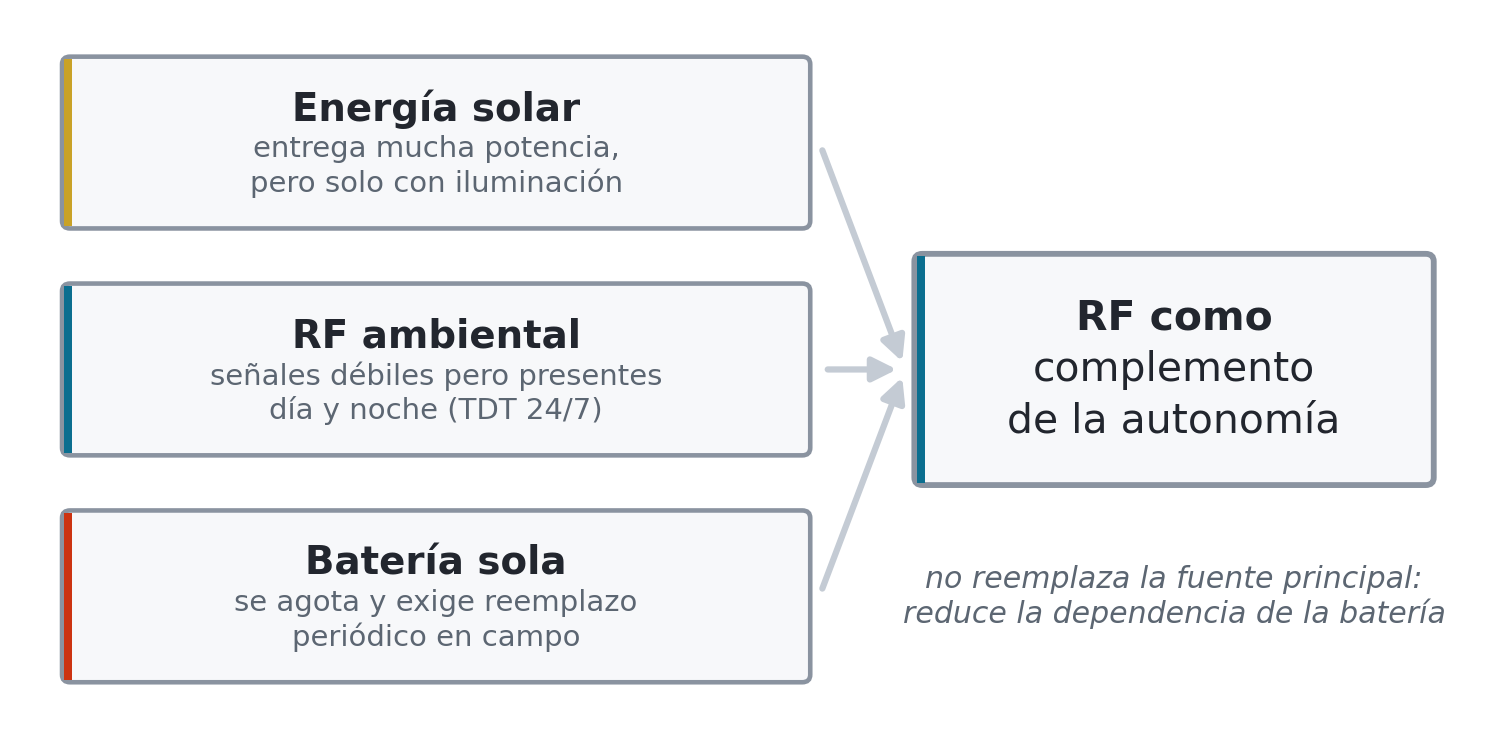
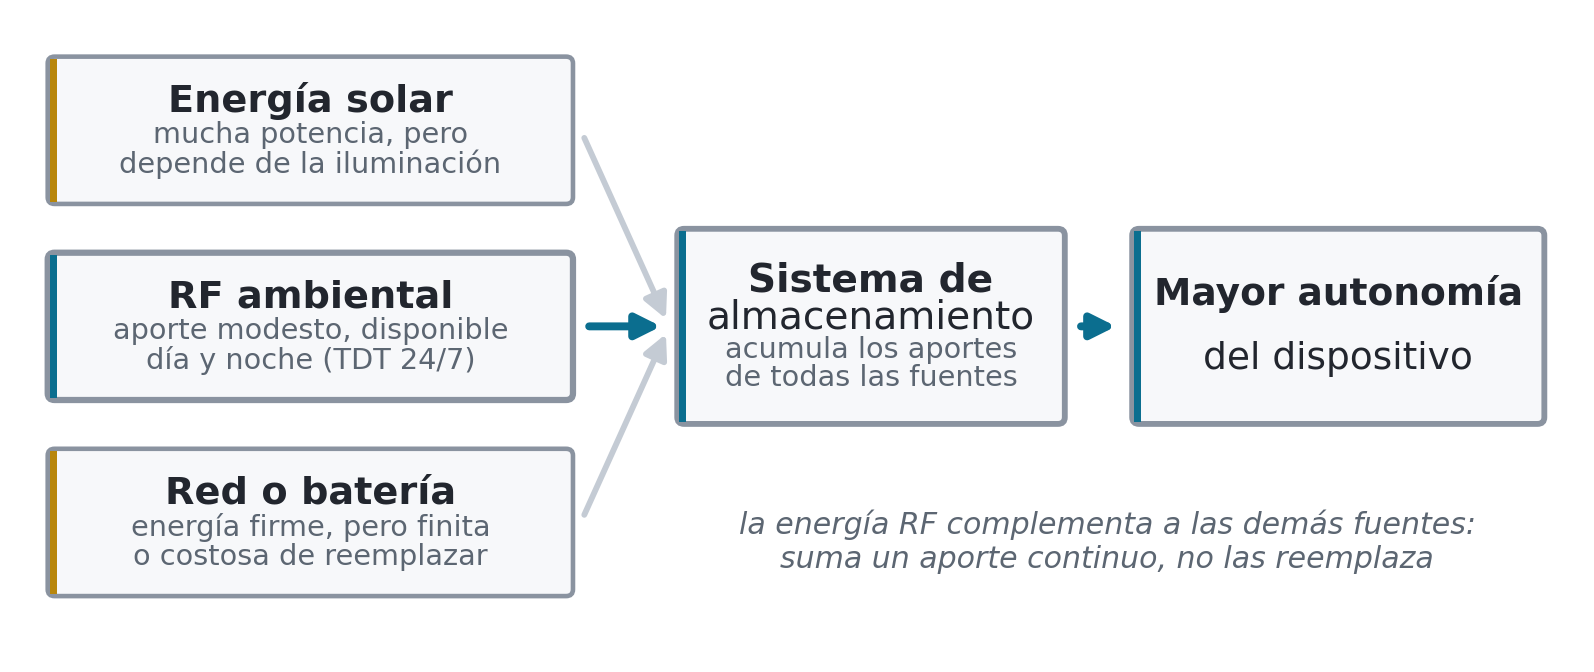
Figura C1 rehecha: RF como complemento del almacenamiento (mensaje honesto, paleta unificada)

Changed region(s): [[0.0, 0.0625, 0.9807, 0.9375]]

diff --git a/_regen/research_figures.py b/_regen/research_figures.py
@@ -89,29 +89,38 @@ def save(fig, name):
 
 
 # ══════════════════════════════════════════════════════════════════════════════
-# C1 — Por qué energía RF (§1.1): tres franjas honestas → RF como complemento
+# C1 — Por qué energía RF (§1.1): tres aportes → sistema de almacenamiento →
+#      mayor autonomía. La RF ambiental COMPLEMENTA (no reemplaza) las demás
+#      estrategias de alimentación. Paleta oro/teal del proyecto.
 # ══════════════════════════════════════════════════════════════════════════════
 def fig_c1():
-    fig, ax = lienzo(6.2, 2.9, (0, 12.6), (0.2, 6.4))
-    bx, bw, bh = 3.55, 6.5, 1.55
-    ys = (5.35, 3.25, 1.15)
+    fig, ax = lienzo(6.6, 2.65, (0, 15.6), (0.0, 6.4))
+    bx, bw, bh = 2.85, 5.3, 1.5
+    ys = (5.35, 3.30, 1.25)
     box(ax, bx, ys[0], bw, bh, ["Energía solar"],
-        sub="entrega mucha potencia,\npero solo con iluminación",
-        accent="#C9A227", fs=9.3, sub_fs=7.0)
+        sub="mucha potencia, pero\ndepende de la iluminación",
+        accent=A_GOLD, fs=9.2, sub_fs=6.9)
     box(ax, bx, ys[1], bw, bh, ["RF ambiental"],
-        sub="señales débiles pero presentes\ndía y noche (TDT 24/7)",
-        accent=AC, fs=9.3, sub_fs=7.0)
-    box(ax, bx, ys[2], bw, bh, ["Batería sola"],
-        sub="se agota y exige reemplazo\nperiódico en campo",
-        accent=COL["warn"], fs=9.3, sub_fs=7.0)
-    cx2, cy2, w2, h2 = 10.0, 3.25, 4.5, 2.1
-    box(ax, cx2, cy2, w2, h2,
-        ["RF como", "complemento", "de la autonomía"],
-        accent=AC, fs=9.8, bold_first=True, lw=1.4)
+        sub="aporte modesto, disponible\ndía y noche (TDT 24/7)",
+        accent=AC, fs=9.2, sub_fs=6.9, lw=1.5)
+    box(ax, bx, ys[2], bw, bh, ["Red o batería"],
+        sub="energía firme, pero finita\no costosa de reemplazar",
+        accent=A_GOLD, fs=9.2, sub_fs=6.9)
+    # etapa central: el almacenamiento donde convergen los aportes
+    cxs, cys, ws, hs = 8.55, 3.30, 3.9, 2.0
+    box(ax, cxs, cys, ws, hs, ["Sistema de", "almacenamiento"],
+        sub="acumula los aportes\nde todas las fuentes",
+        accent=AC, fs=9.4, sub_fs=6.9, lw=1.4)
+    # resultado: autonomía
+    cxa, cya, wa, ha = 13.30, 3.30, 4.15, 2.0
+    box(ax, cxa, cya, wa, ha, ["Mayor autonomía", "del dispositivo"],
+        accent=AC, fs=9.0, lw=1.4)
     for y in ys:
-        arrow(ax, bx + bw / 2 + 0.1, y, cx2 - w2 / 2 - 0.1, cy2,
-              color=RAIL, lw=1.5)
-    ax.text(10.0, 1.15, "no reemplaza la fuente principal:\nreduce la dependencia de la batería",
+        arrow(ax, bx + bw / 2 + 0.1, y, cxs - ws / 2 - 0.1, cys,
+              color=(AC if y == ys[1] else RAIL), lw=(1.9 if y == ys[1] else 1.4))
+    arrow(ax, cxs + ws / 2 + 0.1, cys, cxa - wa / 2 - 0.1, cya, color=AC, lw=1.9)
+    ax.text(10.95, 1.05,
+            "la energía RF complementa a las demás fuentes:\nsuma un aporte continuo, no las reemplaza",
             ha="center", va="center", fontsize=7.2, color=MUTE,
             style="italic", family=FONT)
     save(fig, "C1_por_que_rf.png")